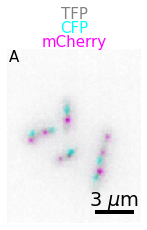
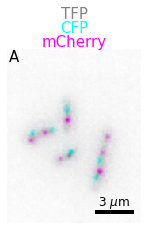
deploy: 971765734276d58d909ef41cfae5a45ab8081ef1

Changed region(s): [[0.5986, 0.8217, 0.9524, 0.913]]

diff --git a/docs/first_plot.html b/docs/first_plot.html
@@ -338,7 +338,7 @@
 <div class="cell_input docutils container">
 <div class="highlight-ipython3 notranslate"><div class="highlight"><pre><span></span><span class="n">microshow</span><span class="p">(</span><span class="n">image_t0</span><span class="p">,</span> <span class="n">cmaps</span><span class="o">=</span><span class="p">[</span><span class="s1">&#39;gray&#39;</span><span class="p">,</span><span class="s1">&#39;pure_cyan&#39;</span><span class="p">,</span><span class="s1">&#39;pure_magenta&#39;</span><span class="p">],</span> <span class="n">flip_map</span><span class="o">=</span><span class="kc">True</span><span class="p">,</span>
                               <span class="n">label_text</span><span class="o">=</span><span class="s1">&#39;A&#39;</span><span class="p">,</span> <span class="n">label_color</span><span class="o">=</span><span class="s1">&#39;black&#39;</span><span class="p">,</span> <span class="n">channel_label_show</span><span class="o">=</span><span class="kc">True</span><span class="p">,</span> <span class="n">channel_names</span><span class="o">=</span><span class="p">[</span><span class="s1">&#39;TFP&#39;</span><span class="p">,</span><span class="s1">&#39;CFP&#39;</span><span class="p">,</span><span class="s1">&#39;mCherry&#39;</span><span class="p">],</span>
-                              <span class="n">unit</span><span class="o">=</span><span class="s1">&#39;um&#39;</span><span class="p">,</span> <span class="n">scalebar_unit_per_pix</span><span class="o">=</span><span class="mf">0.06</span><span class="p">,</span> <span class="n">scalebar_size_in_units</span><span class="o">=</span><span class="mi">3</span><span class="p">,</span> <span class="n">scalebar_color</span><span class="o">=</span><span class="s1">&#39;black&#39;</span><span class="p">);</span>
+                              <span class="n">unit</span><span class="o">=</span><span class="s1">&#39;um&#39;</span><span class="p">,</span> <span class="n">scalebar_unit_per_pix</span><span class="o">=</span><span class="mf">0.06</span><span class="p">,</span> <span class="n">scalebar_size_in_units</span><span class="o">=</span><span class="mi">3</span><span class="p">,</span> <span class="n">scalebar_color</span><span class="o">=</span><span class="s1">&#39;black&#39;</span><span class="p">,</span> <span class="n">scalebar_font_size</span><span class="o">=</span><span class="mf">0.05</span><span class="p">);</span>
 </pre></div>
 </div>
 </div>
@@ -434,7 +434,7 @@
 
 
 <script type="application/vnd.jupyter.widget-state+json">
-{"state": {"807c058b87eb4845ab93e1130a9ecbc5": {"model_module": "@jupyter-widgets/controls", "model_module_version": "1.5.0", "model_name": "IntSliderModel", "state": {"description": "Time", "layout": "IPY_MODEL_8440646465d74e47a7c19107c0f4fcda", "max": 29, "style": "IPY_MODEL_8256fabcaf664a09b500bf7fe2a7805b"}}, "8256fabcaf664a09b500bf7fe2a7805b": {"model_module": "@jupyter-widgets/controls", "model_module_version": "1.5.0", "model_name": "SliderStyleModel", "state": {"description_width": ""}}, "83b84e4d18414eddb4b24e72084f26d9": {"model_module": "@jupyter-widgets/controls", "model_module_version": "1.5.0", "model_name": "VBoxModel", "state": {"children": ["IPY_MODEL_d19acb3772a94533bc11eba8a4a8aa04", "IPY_MODEL_807c058b87eb4845ab93e1130a9ecbc5"], "layout": "IPY_MODEL_965b1c5623fe46d1818362d53002a0c9"}}, "8440646465d74e47a7c19107c0f4fcda": {"model_module": "@jupyter-widgets/base", "model_module_version": "1.2.0", "model_name": "LayoutModel", "state": {}}, "9000cf020a2245feb70015b554cb8a87": {"model_module": "@jupyter-widgets/base", "model_module_version": "1.2.0", "model_name": "LayoutModel", "state": {}}, "965b1c5623fe46d1818362d53002a0c9": {"model_module": "@jupyter-widgets/base", "model_module_version": "1.2.0", "model_name": "LayoutModel", "state": {}}, "d19acb3772a94533bc11eba8a4a8aa04": {"model_module": "@jupyter-widgets/output", "model_module_version": "1.0.0", "model_name": "OutputModel", "state": {"layout": "IPY_MODEL_9000cf020a2245feb70015b554cb8a87"}}}, "version_major": 2, "version_minor": 0}
+{"state": {"26bd63f99dd14685a2004fbf17ecf745": {"model_module": "@jupyter-widgets/base", "model_module_version": "1.2.0", "model_name": "LayoutModel", "state": {}}, "6dbde6ba9eba4ed9a6d4459665f909b5": {"model_module": "@jupyter-widgets/controls", "model_module_version": "1.5.0", "model_name": "IntSliderModel", "state": {"description": "Time", "layout": "IPY_MODEL_26bd63f99dd14685a2004fbf17ecf745", "max": 29, "style": "IPY_MODEL_89defa97f1e04730b092ccf87c4860ff"}}, "7793850dcb434be8aba0c6ae7bcb9f3d": {"model_module": "@jupyter-widgets/base", "model_module_version": "1.2.0", "model_name": "LayoutModel", "state": {}}, "84892ea6df5f4e1081e9403caa731352": {"model_module": "@jupyter-widgets/output", "model_module_version": "1.0.0", "model_name": "OutputModel", "state": {"layout": "IPY_MODEL_c58dbbf2038b49c481b822a3e14a8d89"}}, "89defa97f1e04730b092ccf87c4860ff": {"model_module": "@jupyter-widgets/controls", "model_module_version": "1.5.0", "model_name": "SliderStyleModel", "state": {"description_width": ""}}, "8bbe6863ba8547cc875e0f89fdaa9957": {"model_module": "@jupyter-widgets/controls", "model_module_version": "1.5.0", "model_name": "VBoxModel", "state": {"children": ["IPY_MODEL_84892ea6df5f4e1081e9403caa731352", "IPY_MODEL_6dbde6ba9eba4ed9a6d4459665f909b5"], "layout": "IPY_MODEL_7793850dcb434be8aba0c6ae7bcb9f3d"}}, "c58dbbf2038b49c481b822a3e14a8d89": {"model_module": "@jupyter-widgets/base", "model_module_version": "1.2.0", "model_name": "LayoutModel", "state": {}}}, "version_major": 2, "version_minor": 0}
 </script>
 
 
